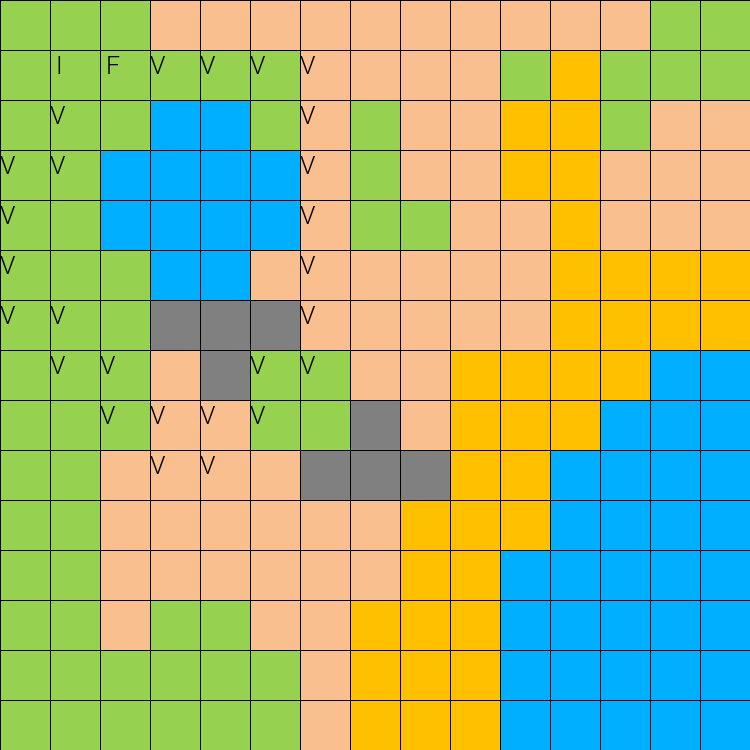
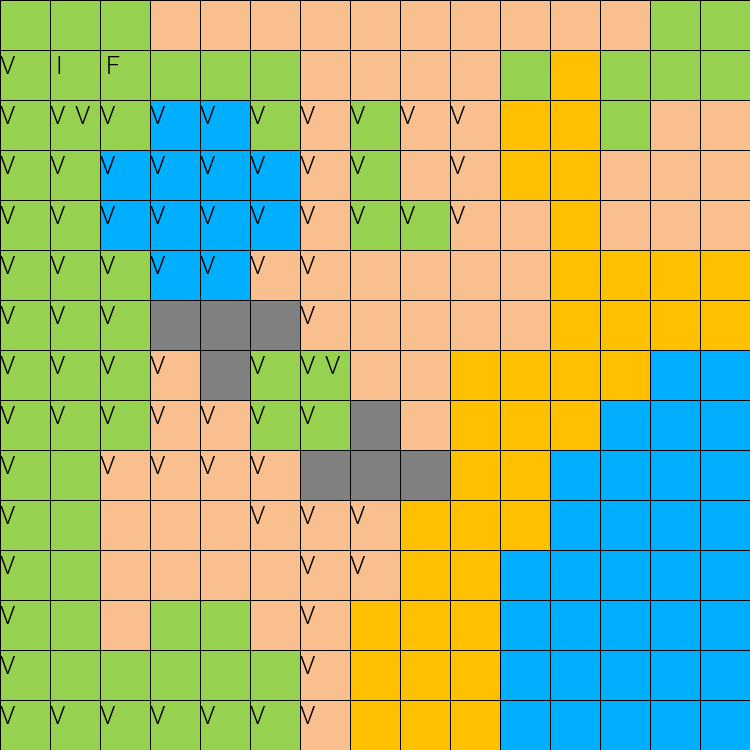
yeppaaaaa

diff --git a/Practica 1/example.py b/Practica 1/example.py
@@ -65,7 +65,7 @@ player = Player()
 
 # Holds the level layout in a list of strings.
 level = agent1.Stage.stage
-
+print(agent1.Stage.stage)
 # Parse the level string above. W = wall, E = exit
 final = agent1.FinalCords
 x = y = 0
@@ -89,21 +89,30 @@ while running:
         # Move the player if an arrow key is pressed
         if e.type == pygame.KEYDOWN:
             if e.key == pygame.K_LEFT:
-                agent1.Stage.textToImage(agent1.ActualCords[1],agent1.ActualCords[0],"V",agent1.Name+".png")
-                back = pygame.image.load(agent1.Name + ".png")
-                player.move(-50, 0)
+                #valid out of bounds
+                validOOB = agent1.leftCord() 
+                if validOOB[0] != -1 and validOOB[1] != -1 and agent1.isValidPosition(agent1.leftCord()): 
+                    agent1.Stage.textToImage(agent1.ActualCords[1],agent1.ActualCords[0],"V",agent1.Name+".png")
+                    back = pygame.image.load(agent1.Name + ".png")
+                    player.move(-50, 0)
             if e.key == pygame.K_RIGHT:
-                agent1.Stage.textToImage(agent1.ActualCords[1],agent1.ActualCords[0],"V",agent1.Name+".png")
-                back = pygame.image.load(agent1.Name + ".png")
-                player.move(50, 0)
+                validOOB = agent1.rightCord() 
+                if validOOB[0] < len(agent1.Stage.stage) and validOOB[1] < len(agent1.Stage.stage) and agent1.isValidPosition(agent1.rightCord()):
+                    agent1.Stage.textToImage(agent1.ActualCords[1],agent1.ActualCords[0],"V",agent1.Name+".png")
+                    back = pygame.image.load(agent1.Name + ".png")
+                    player.move(50, 0)
             if e.key == pygame.K_UP:
-                agent1.Stage.textToImage(agent1.ActualCords[1],agent1.ActualCords[0],"V",agent1.Name+".png")
-                back = pygame.image.load(agent1.Name + ".png")
-                player.move(0, -50)
+                validOOB = agent1.upCord() 
+                if validOOB[0] != -1 and validOOB[1] != -1 and agent1.isValidPosition(agent1.upCord()):
+                    agent1.Stage.textToImage(agent1.ActualCords[1],agent1.ActualCords[0],"V",agent1.Name+".png")
+                    back = pygame.image.load(agent1.Name + ".png")
+                    player.move(0, -50)
             if e.key == pygame.K_DOWN:
-                agent1.Stage.textToImage(agent1.ActualCords[1],agent1.ActualCords[0],"V",agent1.Name+".png")
-                back = pygame.image.load(agent1.Name + ".png")
-                player.move(0, 50)
+                validOOB = agent1.downCord() 
+                if validOOB[0] < len(agent1.Stage.stage) and validOOB[1] < len(agent1.Stage.stage) and agent1.isValidPosition(agent1.downCord()):
+                    agent1.Stage.textToImage(agent1.ActualCords[1],agent1.ActualCords[0],"V",agent1.Name+".png")
+                    back = pygame.image.load(agent1.Name + ".png")
+                    player.move(0, 50)
 
     # Just added this to make it slightly fun ;)
 
